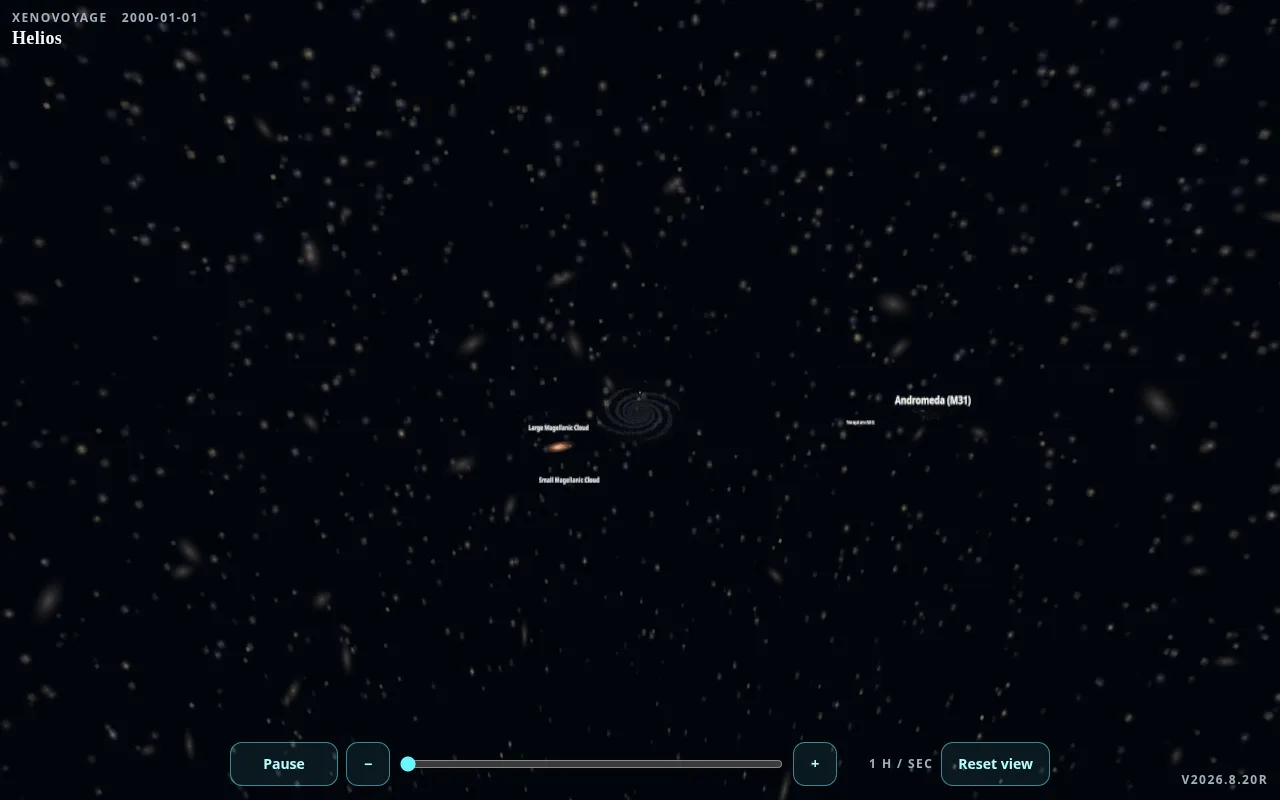
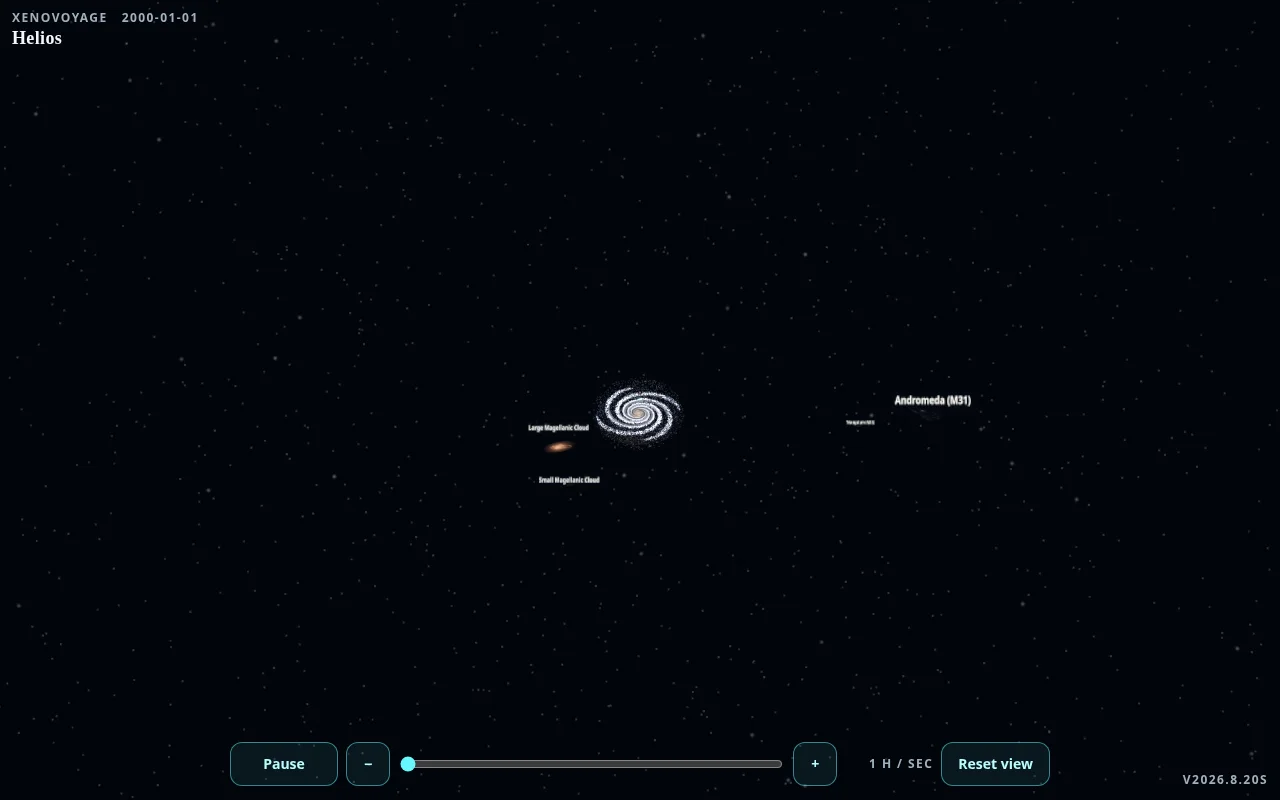
Solar-only constellations and an infinite far-galaxy field
* Hide constellations outside solar and flatten the far-galaxy sky.

IAU lines, names, and the Constellations control stay solar-only.
The first extra-zoom tail already sits on an unlit far-galaxy field
that is full at the face-on disk. The field uses a huge camera-attached
shell with uniform stamps so neighborhood no longer reads as a ball.

* Recapture stills after replacing the far-galaxy shell with a sky field.

The equirectangular sphere still read as a pole hole and ring at face-on
MW. Extra-zoom now uses camera-attached, unlit, screen-fixed points.
README milky-way and neighborhood stills match the judged frames.

---------

diff --git a/js/galaxy.js b/js/galaxy.js
@@ -171,15 +171,14 @@ export function solarOpacity(distance) {
   return distance < CONFIG.handoffViewDistance ? 1 : 0;
 }
 
-/** Local sky / constellations stay while the camera is still in the disk. */
+/** IAU figures and the Constellations control exist only in the solar system. */
 export function skyStaysOn(distance) {
-  const layer = scaleLayer(distance);
-  return layer === "solar" || layer === "transition" || layer === "milkyway";
+  return scaleLayer(distance) === "solar";
 }
 
 /**
- * 3D disk waits until after the pin. First extra-zoom frame is the interior
- * sky / Orion-arm crack, not a distant face-on plate.
+ * 3D disk waits until after the pin. First extra-zoom frame is the tail
+ * on the far-galaxy field, not a distant face-on plate.
  */
 export function milkyWayDiskOpacity(distance) {
   if (distance < CONFIG.handoffViewDistance) return 0;
@@ -190,28 +189,19 @@ export function milkyWayDiskOpacity(distance) {
   );
 }
 
-/** Gaia skybox stays through the disk, then yields to the far-galaxy field. */
+/** Gaia / Hipparcos sky is solar. It is gone by the first extra-zoom tail. */
 export function celestialSkyOpacity(distance) {
-  if (distance <= CONFIG.mwViewDistance) return 1;
-  if (distance >= CONFIG.neighborhoodViewDistance) return 0;
+  if (distance <= CONFIG.solarMaxDistance) return 1;
+  if (distance >= CONFIG.handoffViewDistance) return 0;
   return 1 - smoothstep01(
-    (distance - CONFIG.mwViewDistance)
-    / (CONFIG.neighborhoodViewDistance - CONFIG.mwViewDistance),
+    (distance - CONFIG.solarMaxDistance)
+    / (CONFIG.handoffViewDistance - CONFIG.solarMaxDistance),
   );
 }
 
-/** Local MW band brightens on the interior ride, then hands off. */
-export function skyBandBrightness(distance) {
-  const solar = 0.82;
-  const interior = 1.68;
-  if (distance <= CONFIG.solarMaxDistance) return solar;
-  if (distance <= CONFIG.handoffViewDistance) {
-    const t = (distance - CONFIG.solarMaxDistance)
-      / (CONFIG.handoffViewDistance - CONFIG.solarMaxDistance);
-    return solar + (interior - solar) * smoothstep01(t);
-  }
-  if (distance <= CONFIG.mwViewDistance) return interior;
-  return interior * celestialSkyOpacity(distance);
+/** Solar band strength. Extra-zoom fade is celestialSkyOpacity, not this. */
+export function skyBandBrightness(_distance) {
+  return 0.82;
 }
 
 /**
@@ -292,18 +282,27 @@ export function universeOpacity(distance) {
 }
 
 /**
- * Far-galaxy skybox fades in as the Orion-arm tail becomes the full disk,
- * so the MW look already sits on a field. CMB replaces it later.
+ * Far-galaxy field is already up at the first extra-zoom tail, full at the
+ * face-on disk. CMB replaces it at the last outside sphere.
  */
 export function farGalaxySkyOpacity(distance) {
-  const start = CONFIG.handoffViewDistance
-    + (CONFIG.mwViewDistance - CONFIG.handoffViewDistance) * 0.28;
-  if (distance <= start) return 0;
+  if (distance <= CONFIG.solarMaxDistance) return 0;
   const fadeStart = CONFIG.webViewDistance
     + (CONFIG.universeViewDistance - CONFIG.webViewDistance) * 0.72;
-  const shown = distance >= CONFIG.mwViewDistance
-    ? 1
-    : smoothstep01((distance - start) / (CONFIG.mwViewDistance - start));
+  const up = 0.58;
+  let shown;
+  if (distance >= CONFIG.mwViewDistance) shown = 1;
+  else if (distance >= CONFIG.handoffViewDistance) {
+    shown = up + (1 - up) * smoothstep01(
+      (distance - CONFIG.handoffViewDistance)
+      / (CONFIG.mwViewDistance - CONFIG.handoffViewDistance),
+    );
+  } else {
+    shown = up * smoothstep01(
+      (distance - CONFIG.solarMaxDistance)
+      / (CONFIG.handoffViewDistance - CONFIG.solarMaxDistance),
+    );
+  }
   if (distance <= fadeStart) return shown;
   if (distance >= CONFIG.universeViewDistance) return 0;
   return shown * (1 - smoothstep01(
@@ -1515,72 +1514,64 @@ function createCmbShell(THREE, group) {
   group.add(shell);
 }
 
-function farGalaxySkyMap(THREE) {
-  const width = 2048;
-  const height = 1024;
-  const canvas = document.createElement("canvas");
-  canvas.width = width;
-  canvas.height = height;
-  const ctx = canvas.getContext("2d");
-  ctx.fillStyle = "#02050c";
-  ctx.fillRect(0, 0, width, height);
-  const rand = seedRandom(4608);
-  for (let i = 0; i < 14000; i += 1) {
+function fillSpherePoints(count, radius, seed) {
+  const positions = new Float32Array(count * 3);
+  const colors = new Float32Array(count * 3);
+  const rand = seedRandom(seed);
+  for (let i = 0; i < count; i += 1) {
     const theta = rand() * Math.PI * 2;
     const phi = Math.acos(2 * rand() - 1);
-    const x = (theta / (Math.PI * 2)) * width;
-    const y = (phi / Math.PI) * height;
-    const pole = Math.sin(phi);
+    const sinP = Math.sin(phi);
+    positions[i * 3] = radius * sinP * Math.cos(theta);
+    positions[i * 3 + 1] = radius * Math.cos(phi);
+    positions[i * 3 + 2] = radius * sinP * Math.sin(theta);
     const warm = rand();
-    stampSoft(
-      ctx,
-      x,
-      y,
-      (0.7 + rand() * 2.2) * (0.4 + 0.6 * pole),
-      `rgba(${Math.floor(150 + 95 * warm)}, ${Math.floor(165 + 55 * warm)}, ${Math.floor(215 - 40 * warm)}, ${0.28 + rand() * 0.5})`,
-    );
+    const shade = 0.42 + rand() * 0.58;
+    colors[i * 3] = ((150 + 95 * warm) / 255) * shade;
+    colors[i * 3 + 1] = ((165 + 55 * warm) / 255) * shade;
+    colors[i * 3 + 2] = ((215 - 40 * warm) / 255) * shade;
   }
-  for (let i = 0; i < 420; i += 1) {
-    const theta = rand() * Math.PI * 2;
-    const phi = Math.acos(2 * rand() - 1);
-    const pole = Math.sin(phi);
-    if (pole < 0.28) continue;
-    const x = (theta / (Math.PI * 2)) * width;
-    const y = (phi / Math.PI) * height;
-    ctx.save();
-    ctx.translate(x, y);
-    ctx.rotate(rand() * Math.PI);
-    ctx.scale(1, 0.3 + rand() * 0.28);
-    stampSoft(ctx, 0, 0, 4 + rand() * 7, "rgba(220, 200, 170, 0.4)");
-    ctx.restore();
-  }
-  const map = new THREE.CanvasTexture(canvas);
-  map.colorSpace = THREE.SRGBColorSpace;
-  map.anisotropy = 4;
-  return map;
+  return { positions, colors };
 }
 
+/** Distant camera-attached field. Screen-fixed points, not a lit world-space ball. */
 export function farGalaxySkyRadius() {
-  return CONFIG.skyRadius * 1.18;
+  return CONFIG.cameraFar * 0.42;
 }
 
 function createFarGalaxySky(THREE, group) {
   const sky = new THREE.Group();
   sky.name = "far-galaxy-sky";
   const radius = farGalaxySkyRadius();
-  const sphere = new THREE.Mesh(
-    new THREE.SphereGeometry(radius, 64, 48),
-    unlitBasic(THREE, {
-      map: farGalaxySkyMap(THREE),
-      opacity: 0.88,
-      side: THREE.BackSide,
-      depthTest: false,
-      fog: false,
-    }),
+  const field = fillSpherePoints(14000, radius, 4608);
+  const shell = addPoints(
+    THREE,
+    sky,
+    "far-galaxy-shell",
+    field.positions,
+    field.colors,
+    2.2,
+    0.92,
+    false,
+    THREE.AdditiveBlending,
   );
-  sphere.name = "far-galaxy-shell";
-  sphere.frustumCulled = false;
-  sky.add(sphere);
+  const blobs = fillSpherePoints(280, radius, 9124);
+  const marks = addPoints(
+    THREE,
+    sky,
+    "far-galaxy-blobs",
+    blobs.positions,
+    blobs.colors,
+    5.4,
+    0.55,
+    false,
+    THREE.AdditiveBlending,
+  );
+  for (const pts of [shell, marks]) {
+    pts.material.depthTest = false;
+    pts.material.fog = false;
+  }
+  sky.renderOrder = -80;
   group.add(sky);
 }
 

diff --git a/js/app.js b/js/app.js
@@ -677,16 +677,16 @@ function paintClock() {
 }
 
 function paintSkyButton() {
-  const inDisk = skyStaysOn(state.distance);
+  const inSolar = skyStaysOn(state.distance);
   ui.sky.textContent = "Constellations";
-  ui.sky.hidden = !inDisk;
+  ui.sky.hidden = !inSolar;
   ui.sky.setAttribute("aria-pressed", String(state.showConstellations));
 }
 
 function paintConstellations() {
-  const inDisk = skyStaysOn(state.distance);
+  const inSolar = skyStaysOn(state.distance);
   paintSkyButton();
-  if (celestial) setConstellationsVisible(celestial, inDisk && state.showConstellations);
+  if (celestial) setConstellationsVisible(celestial, inSolar && state.showConstellations);
 }
 
 function paintHelperButtons() {

diff --git a/js/config.js b/js/config.js
@@ -14,7 +14,7 @@
  * compressed-Mpc, or compressed-Gpc mappings, not AU.
  */
 export const CONFIG = Object.freeze({
-  VERSION: "v2026.8.20r",
+  VERSION: "v2026.8.20s",
   earthRadiusKm: 6371,
   auKm: 149597870.7,
   visualScale: 2.6,

diff --git a/README.md b/README.md
@@ -1,6 +1,6 @@
 # Helios
 
-[![Version v2026.8.20r](https://img.shields.io/badge/version-v2026.8.20r-66f7ff)](VERSION.txt)
+[![Version v2026.8.20s](https://img.shields.io/badge/version-v2026.8.20s-66f7ff)](VERSION.txt)
 [![MIT](https://img.shields.io/badge/license-MIT-a77bff)](LICENSE)
 
 An interactive 3D orrery of the solar system.
@@ -13,7 +13,7 @@ An interactive 3D orrery of the solar system.
 
 ![Constellation names readable at overview, with Sagittarius and Scorpius labeled.](docs/assets/helios-constellations.webp)
 
-![Milky Way after extra zoom-out: a bright Orion-arm interior, then the full disk, with the Sun pin on the arm.](docs/assets/helios-milky-way.webp)
+![Milky Way after extra zoom-out: a face-on disk on a far-galaxy field, with the Sun pin on an arm. No constellation lines.](docs/assets/helios-milky-way.webp)
 
 ![Nearby galaxies on the second scale: Andromeda, Triangulum, and the Magellanic Clouds.](docs/assets/helios-neighborhood.webp)
 
@@ -25,7 +25,7 @@ An interactive 3D orrery of the solar system.
 
 ![Observable universe: the CMB last-scattering sphere seen from outside, with the filled web inside.](docs/assets/helios-universe.webp)
 
-Tap or click a world — including the Sun — to focus it. Drag to orbit. Pinch-out zooms out; pinch-in zooms in. Play, pause, and change the speed of time from the bar at the bottom. Close the body card with the X or by tapping empty space. Zoom out past the solar overview and the orrery shrinks to a Sun pin. You stay inside the Milky Way: constellations remain, the local sky brightens into the Orion Arm, then more of that tail, then the full bright disk. After you leave the galaxy that interior sky becomes the far-galaxy field. Nearby galaxies including Andromeda sit against that field through the Local Group and Virgo. Only after a long colored cosmic web does that sky turn microwave, then an observable-universe sphere you can leave and see from outside. We sit in the Local Group, inside Laniakea; Virgo is the nearest large cluster, not our cluster in the same sense.
+Tap or click a world — including the Sun — to focus it. Drag to orbit. Pinch-out zooms out; pinch-in zooms in. Play, pause, and change the speed of time from the bar at the bottom. Close the body card with the X or by tapping empty space. Zoom out past the solar overview and the orrery shrinks to a Sun pin. Constellation lines, names, and the Constellations control stay in the solar system. The first extra-zoom frame is already a far-galaxy field; the bright Milky Way tail and then the face-on disk sit on that field. Nearby galaxies including Andromeda stay against it through the Local Group and Virgo. Only after a long colored cosmic web does that sky turn microwave, then an observable-universe sphere you can leave and see from outside. We sit in the Local Group, inside Laniakea; Virgo is the nearest large cluster, not our cluster in the same sense.
 
 Helios is a local page: no accounts, no telemetry, and no CDN.
 
@@ -34,7 +34,7 @@ Helios is a local page: no accounts, no telemetry, and no CDN.
 | Detail | Summary |
 | --- | --- |
 | Worlds | Sun, 8 planets, the Moon, Phobos, Deimos, Io, Europa, Ganymede, Callisto, Titan, Triton, Pluto, and Ceres |
-| Sky | Hipparcos bright stars, IAU constellation lines, a Milky Way band, and Andromeda at M31. Extra zoom-out stays inside the disk first — constellations still on, the local band becoming the Orion Arm — then a luminous Milky Way disk, nearby galaxies, a short Local Group, and Virgo still under a far-galaxy sky, then a large colored cosmic web and a later CMB sphere you can see from outside; that map is not the sky. |
+| Sky | Hipparcos bright stars, IAU constellation lines, a Milky Way band, and Andromeda at M31 inside the solar system. Extra zoom-out drops those figures at once and uses a far-galaxy field from the first tail through a luminous Milky Way disk, nearby galaxies, a short Local Group, and Virgo, then a large colored cosmic web and a later CMB sphere you can see from outside; that map is not the sky. |
 | Belts | Asteroid field between Mars and Jupiter; Kuiper field from about 30–50 AU. Sparse points, not rock catalogs |
 | Time | Independent of the visual scale. Default and minimum are 1 simulated hour per real second |
 | Play with | Mouse, keyboard, or touch |
